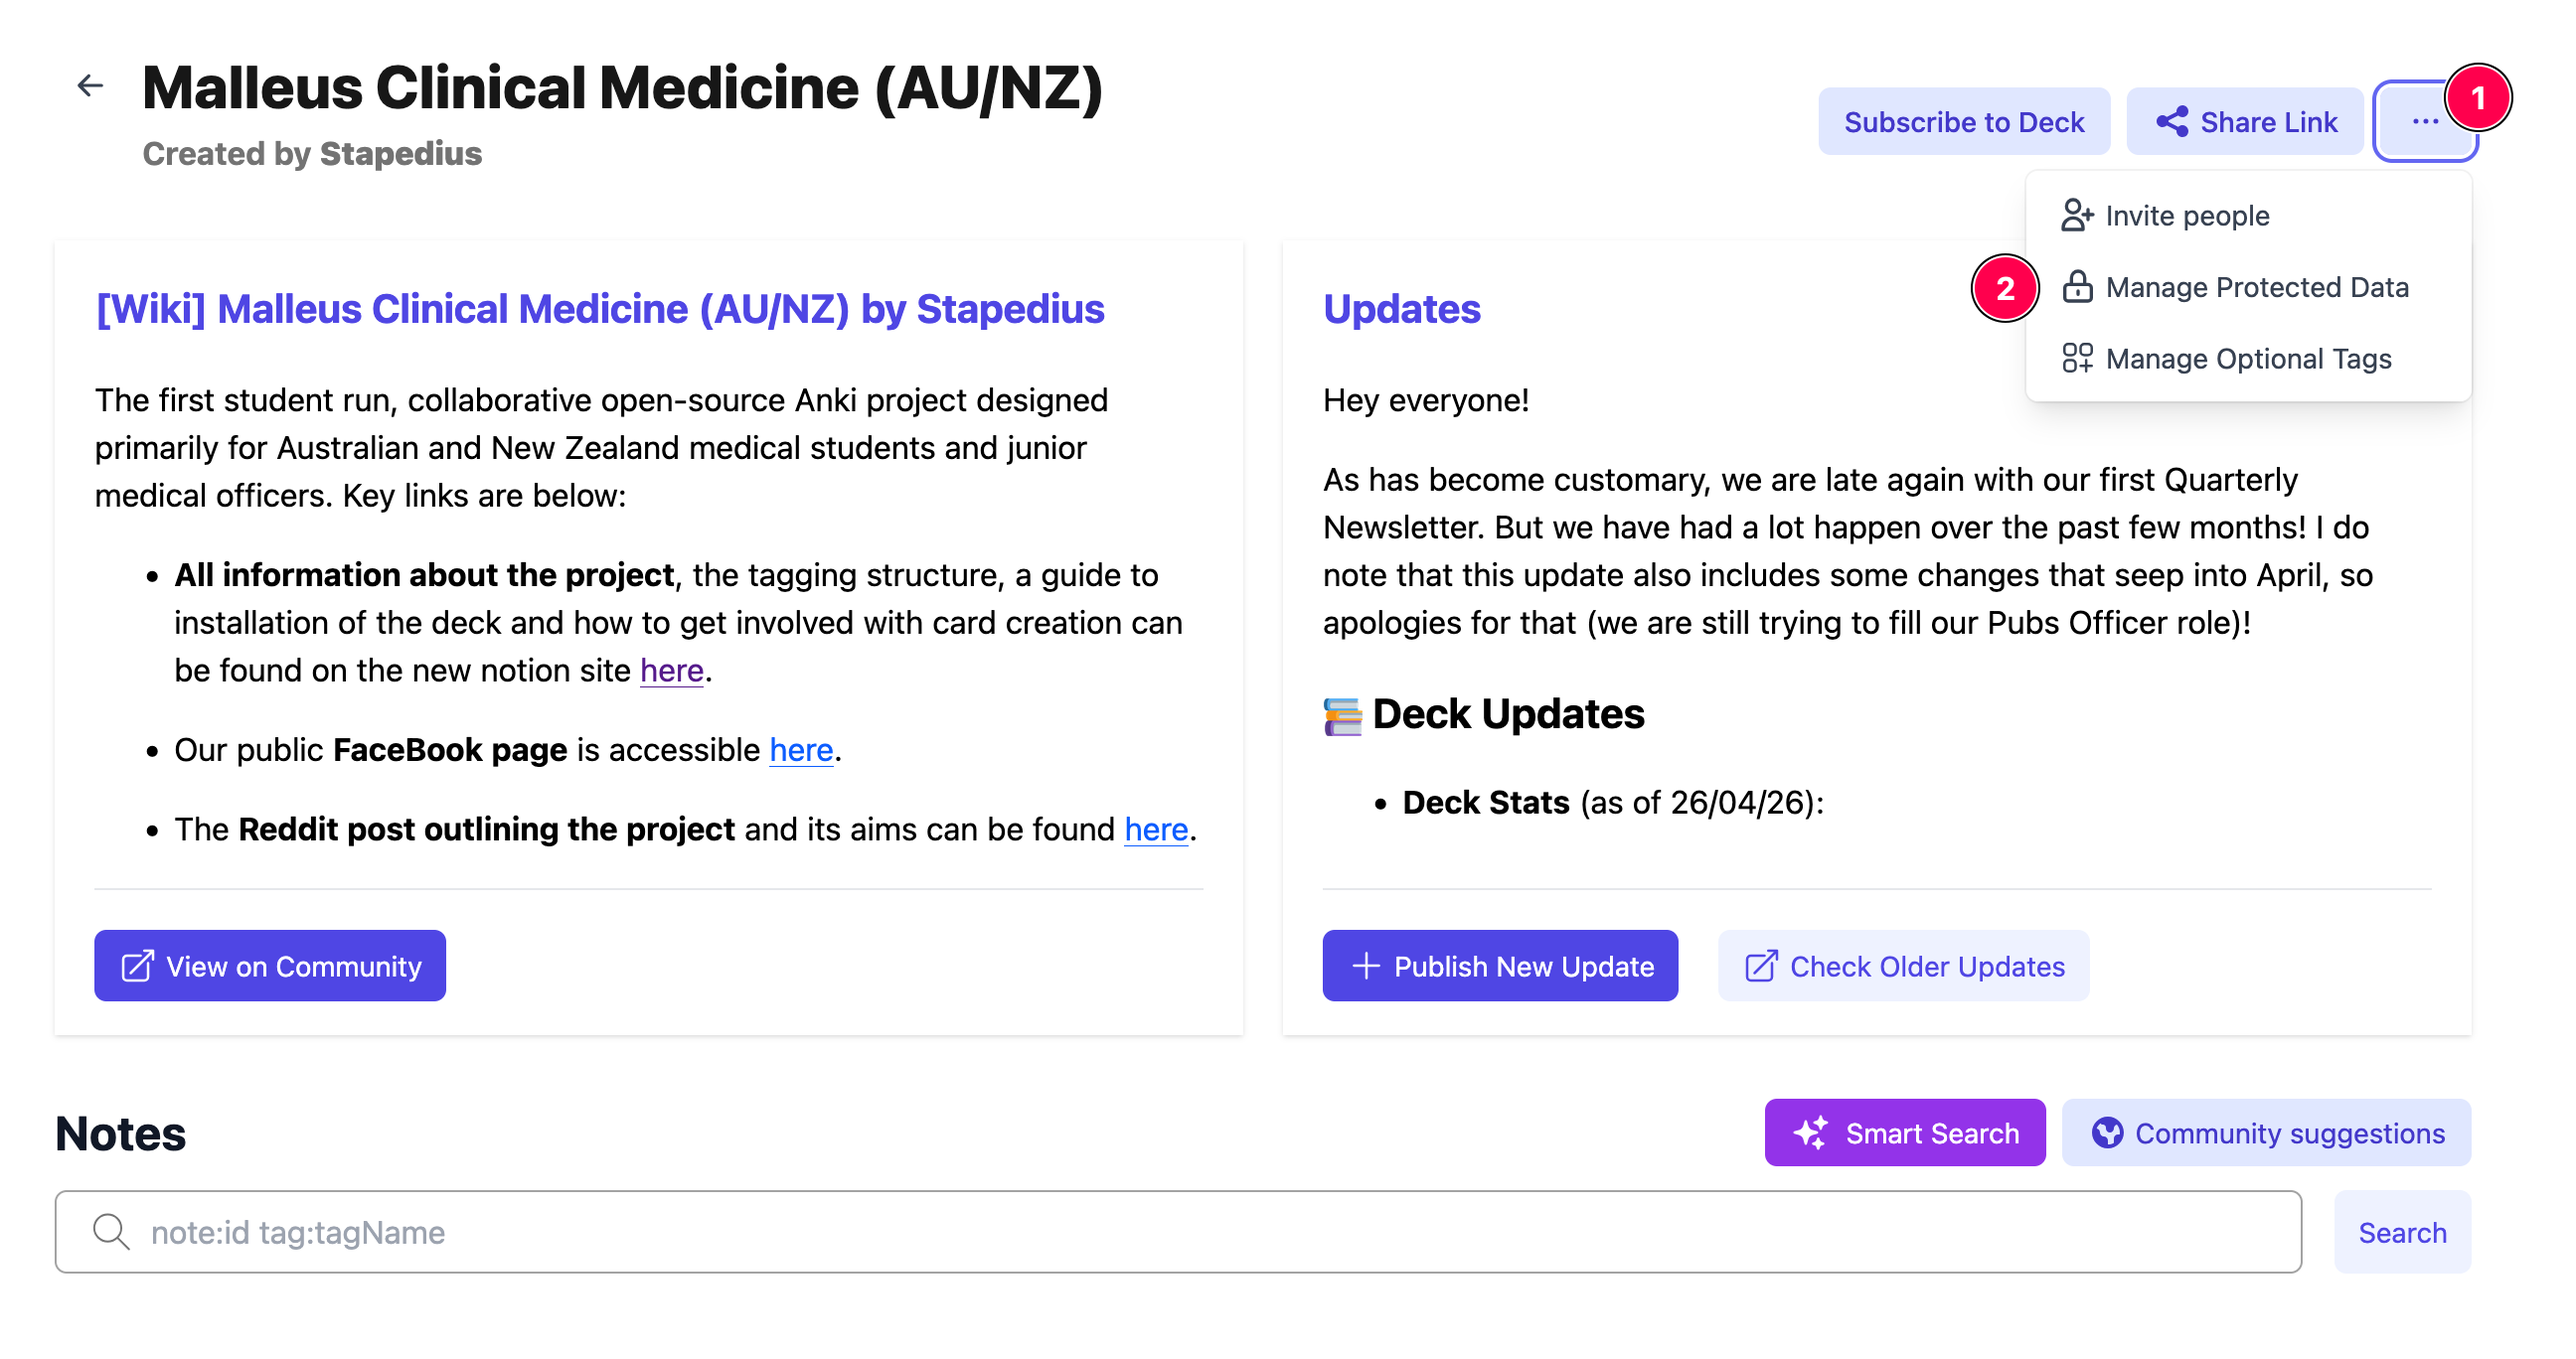
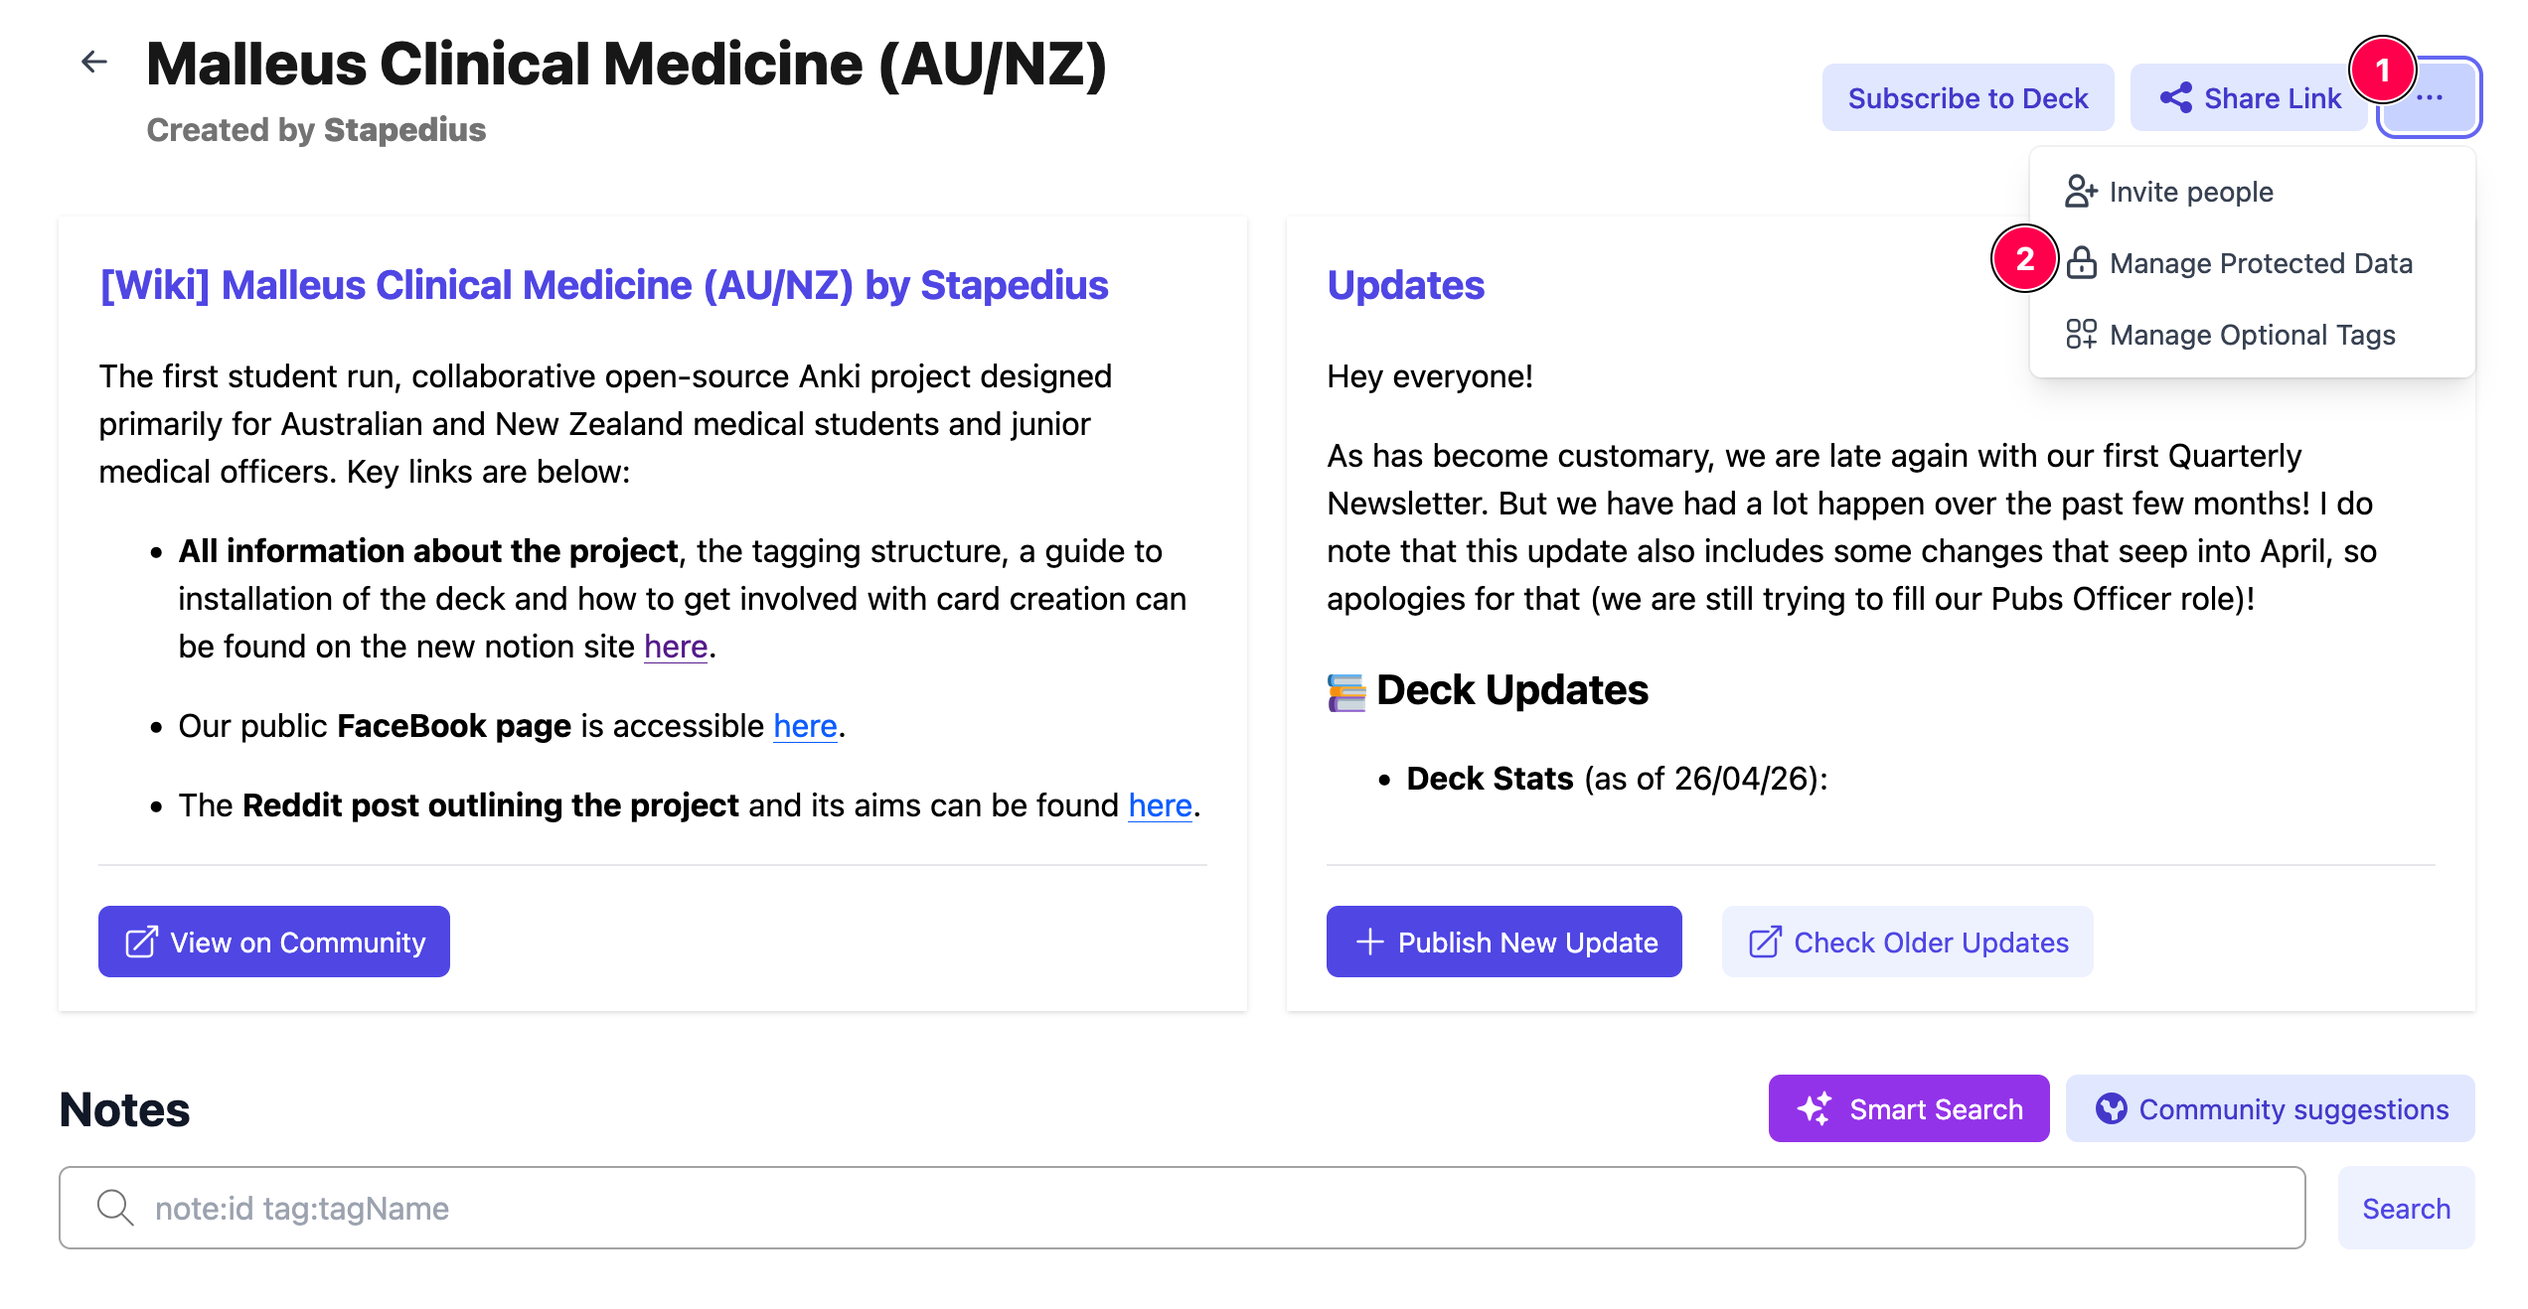
Image styling

diff --git a/docs/stylesheets/extra.css b/docs/stylesheets/extra.css
@@ -44,6 +44,17 @@
   border-radius: 6px;
 }
 
+/* Images are unstyled by default — macOS window captures carry their own
+   drop shadow. Size each screenshot in the markdown with { width="..." }
+   (half its pixel width for 2x retina captures).
+   For flat captures with no natural shadow that bleed into the white page,
+   opt in to a frame with { .frame } */
+.md-content .md-typeset img.frame {
+  border: 1px solid var(--malleus-border);
+  border-radius: 10px;
+  box-shadow: 0 4px 20px rgba(27, 78, 122, 0.08);
+}
+
 /* Screenshot placeholders (until images are migrated) */
 .screenshot-todo {
   border: 2px dashed var(--malleus-border);

diff --git a/docs/getting-started/get-the-deck.md b/docs/getting-started/get-the-deck.md
@@ -24,13 +24,13 @@ The deck is delivered and kept up to date through a collaborative deck platform.
     3. Restart Anki
     4. Click **AnkiHub → Sign into AnkiHub** and log in
 
-    ![Get Add-Ons Dialog](../assets/getting-started/get-the-deck-addon-dialog.png)
+    ![Get Add-Ons Dialog](../assets/getting-started/get-the-deck-addon-dialog.png){ width="435" }
 
     ## 3. Subscribe to the Malleus deck
 
     Open the [Malleus Clinical Medicine page on AnkiHub](https://app.ankihub.net/decks/5a1160ef-6f41-4d8c-948b-f72275ef0ff7) and click **Subscribe**.
 
-    ![Subscribe to Malleus Deck](../assets/getting-started/get-the-deck-subscribe.png)
+    ![Subscribe to Malleus Deck](../assets/getting-started/get-the-deck-subscribe.png){ width="330" }
 
     ## 4. Protect your personal notes
 
@@ -45,8 +45,9 @@ The deck is delivered and kept up to date through a collaborative deck platform.
     - **Missed Questions** — screenshots of practice questions you got wrong (e.g. from eMedici or AMBOSS)
     - **leech tag** — Anki automatically tags cards you keep getting wrong so you can review them separately
 
-    ![Protected Data](../assets/getting-started/get-the-deck-protected-data.png)
-    ![Protected Fields](../assets/getting-started/get-the-deck-protected-fields.png)
+    ![Protected Data](../assets/getting-started/get-the-deck-protected-data.png){ width="700" .frame }
+
+    ![Protected Fields](../assets/getting-started/get-the-deck-protected-fields.png){ width="640" .frame }
 
     ## 5. Open Anki and install
 

diff --git a/README.md b/README.md
@@ -30,7 +30,7 @@ CNAME  docs  ->  <netlify-site-name>.netlify.app
 
 ## Migration TODOs
 
-- **Screenshots**: pages contain dashed `📷 Screenshot to migrate` placeholders wherever the Notion originals had images — export from Notion and drop into `docs/assets/`
+- **Screenshots**: pages contain dashed `📷 Screenshot to migrate` placeholders wherever the Notion originals had images — export from Notion and drop into `docs/assets/<section>/` as `<page>-<subject>.png` (kebab-case). Size each image in the markdown at half its pixel width (retina), capped at ~700: `![Alt](path.png){ width="435" }`. macOS window captures keep their natural shadow; for flat captures that bleed into the white page, add the `.frame` class: `{ width="700" .frame }`
 - **AnkiCollab**: the Get the Deck page has a placeholder tab pending the deck's AnkiCollab publication
 - Small `<!-- TODO -->` comments mark a few Notion-hosted artefacts (spellcheck dictionary file, Chrome extension link, algorithm-builder content, image-credit HTML snippet)
 - **Addon docs** may later move to a `docs/` folder in the [Malleus-Anki-Addon repo](https://github.com/Sabicool/Malleus-Anki-Addon) and be pulled in at build time (e.g. `mkdocs-multirepo-plugin`)

diff --git a/docs/getting-started/install-anki.md b/docs/getting-started/install-anki.md
@@ -4,6 +4,6 @@ Anki is the free flashcard program that powers the deck. Download it for your co
 
 You can also review on your phone with [AnkiMobile (iOS)](https://apps.apple.com/au/app/ankimobile-flashcards/id373493387) or [AnkiDroid (Android)](https://play.google.com/store/apps/details?id=com.ichi2.anki) — but you still need the computer version to set up and sync the deck.
 
-![Anki desktop download page](../assets/getting-started/install-anki-desktop.png)
+![Anki desktop download page](../assets/getting-started/install-anki-desktop.png){ width="700" }
 
 Once Anki is installed, the next step is subscribing to the deck.
